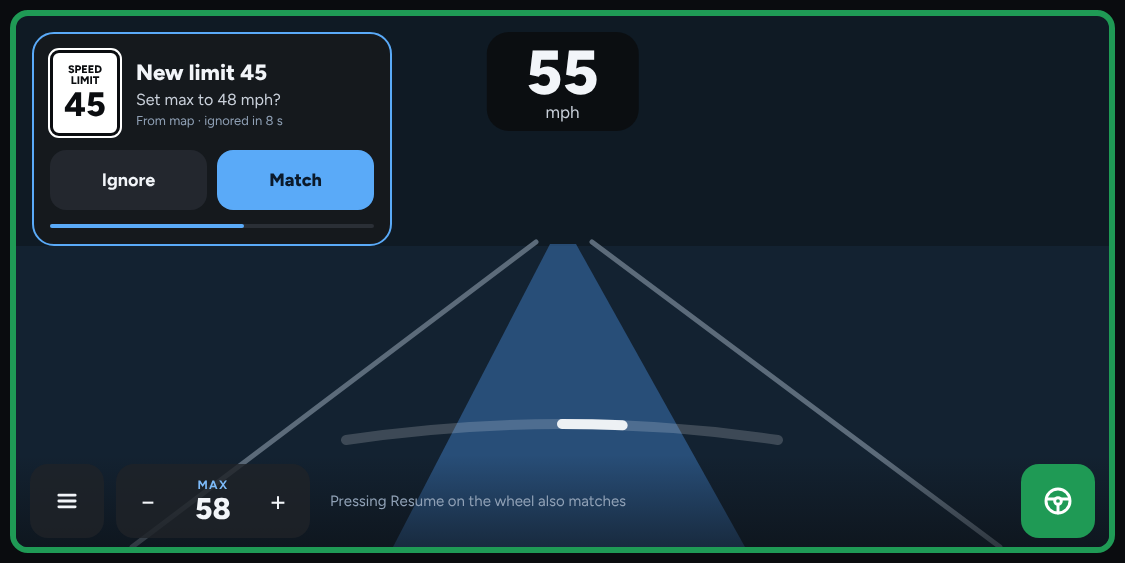
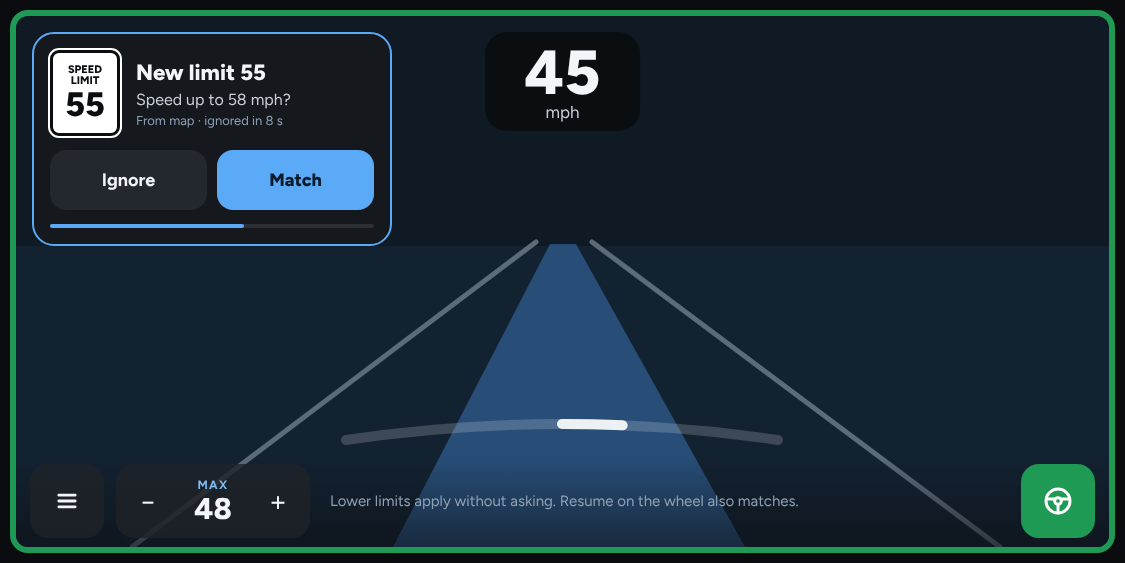
Let drivers choose automatic or tap-to-confirm for higher speed limits
Lower limits always apply on their own. Higher limits default to a tap
to confirm, with an option to update automatically.

Claude-Session: https://claude.ai/code/session_01R4pPc2hcx88Dbjjec1p8WC

diff --git a/starpilot/docs/design/essentials/driving.html b/starpilot/docs/design/essentials/driving.html
@@ -29,11 +29,11 @@ a{color:#5AAAF8}a:hover{color:#8CC4FA}
       </a>
     </div>
     <div style="flex-grow: 1; min-width: 0; background: #16191D; border-radius: 22px; display: flex; flex-direction: column; overflow: hidden;">
-      <div style="padding: 16px 22px 12px; border-bottom: 1px solid #23272E; display: flex; align-items: baseline; justify-content: space-between;">
+      <div style="padding: 12px 22px 8px; border-bottom: 1px solid #23272E; display: flex; align-items: baseline; justify-content: space-between;">
         <h2 style="margin: 0; font-size: 24px; font-weight: 700;">Everyday</h2>
-        <span style="font-size: 14px; color: #8FA0B5;">6 settings</span>
+        <span style="font-size: 14px; color: #8FA0B5;">7 settings</span>
       </div>
-      <div style="display: flex; align-items: center; gap: 16px; padding: 0 16px 0 22px; height: 60px; border-bottom: 1px solid #23272E;">
+      <div style="display: flex; align-items: center; gap: 16px; padding: 0 16px 0 22px; height: 54px; border-bottom: 1px solid #23272E;">
         <div style="flex-grow: 1; display: flex; flex-direction: column; gap: 3px; min-width: 0;">
           <span style="font-size: 19px; font-weight: 600;">Driving Style</span>
           <span style="font-size: 14px; color: #AEB6C2;">Sets following gap, acceleration and braking together</span>
@@ -44,10 +44,10 @@ a{color:#5AAAF8}a:hover{color:#8CC4FA}
           <button type="button" role="radio" aria-checked="false" style="font-family: inherit; border: 0; background: transparent; color: #C9D0DA; height: 42px; padding: 0 16px; border-radius: 10px; font-size: 16px; font-weight: 600;">Sport</button>
         </div>
       </div>
-      <div style="display: flex; align-items: center; gap: 16px; padding: 0 16px 0 22px; height: 60px; border-bottom: 1px solid #23272E;">
+      <div style="display: flex; align-items: center; gap: 16px; padding: 0 16px 0 22px; height: 54px; border-bottom: 1px solid #23272E;">
         <div style="flex-grow: 1; display: flex; flex-direction: column; gap: 3px; min-width: 0;">
           <span style="font-size: 19px; font-weight: 600;">Speed Limits</span>
-          <span style="font-size: 14px; color: #AEB6C2;">Match sets cruise to the posted limit, confirmed with a tap</span>
+          <span style="font-size: 14px; color: #AEB6C2;">Match sets cruise to the posted limit</span>
         </div>
         <div role="radiogroup" aria-label="Speed limits" style="display: flex; background: #23272E; border-radius: 13px; padding: 4px;">
           <button type="button" role="radio" aria-checked="false" style="font-family: inherit; border: 0; background: transparent; color: #C9D0DA; height: 42px; padding: 0 16px; border-radius: 10px; font-size: 16px; font-weight: 600;">Off</button>
@@ -55,7 +55,7 @@ a{color:#5AAAF8}a:hover{color:#8CC4FA}
           <button type="button" role="radio" aria-checked="true" style="font-family: inherit; border: 0; background: #5AAAF8; color: #0B1A2B; height: 42px; padding: 0 16px; border-radius: 10px; font-size: 16px; font-weight: 700;">Match</button>
         </div>
       </div>
-      <div style="display: flex; align-items: center; gap: 16px; padding: 0 16px 0 46px; height: 54px; border-bottom: 1px solid #23272E; background: #13161A;">
+      <div style="display: flex; align-items: center; gap: 16px; padding: 0 16px 0 46px; height: 48px; border-bottom: 1px solid #23272E; background: #13161A;">
         <div style="flex-grow: 1; display: flex; flex-direction: column; gap: 3px; min-width: 0;">
           <span style="font-size: 17px; font-weight: 600;">Offset</span>
           <span style="font-size: 14px; color: #AEB6C2;">Added to every matched limit</span>
@@ -66,7 +66,17 @@ a{color:#5AAAF8}a:hover{color:#8CC4FA}
           <button type="button" aria-label="Increase offset" style="font-family: inherit; width: 44px; height: 40px; border: 0; background: transparent; color: #F2F5F9; font-size: 22px;">+</button>
         </div>
       </div>
-      <div style="display: flex; align-items: center; gap: 16px; padding: 0 16px 0 22px; height: 60px; border-bottom: 1px solid #23272E;">
+      <div style="display: flex; align-items: center; gap: 16px; padding: 0 16px 0 46px; height: 48px; border-bottom: 1px solid #23272E; background: #13161A;">
+        <div style="flex-grow: 1; display: flex; flex-direction: column; gap: 2px; min-width: 0;">
+          <span style="font-size: 17px; font-weight: 600;">Higher limits</span>
+          <span style="font-size: 14px; color: #AEB6C2;">Lower limits always apply on their own</span>
+        </div>
+        <div role="radiogroup" aria-label="Higher limits" style="display: flex; background: #23272E; border-radius: 12px; padding: 3px;">
+          <button type="button" role="radio" aria-checked="false" style="font-family: inherit; border: 0; background: transparent; color: #C9D0DA; height: 36px; padding: 0 14px; border-radius: 9px; font-size: 15px; font-weight: 600;">Update automatically</button>
+          <button type="button" role="radio" aria-checked="true" style="font-family: inherit; border: 0; background: #5AAAF8; color: #0B1A2B; height: 36px; padding: 0 14px; border-radius: 9px; font-size: 15px; font-weight: 700;">Tap to confirm</button>
+        </div>
+      </div>
+      <div style="display: flex; align-items: center; gap: 16px; padding: 0 16px 0 22px; height: 54px; border-bottom: 1px solid #23272E;">
         <div style="flex-grow: 1; display: flex; flex-direction: column; gap: 3px; min-width: 0;">
           <span style="font-size: 19px; font-weight: 600;">Lane Changes</span>
           <span style="font-size: 14px; color: #AEB6C2;">Auto starts one change per signal, above 25 mph</span>
@@ -76,14 +86,14 @@ a{color:#5AAAF8}a:hover{color:#8CC4FA}
           <button type="button" role="radio" aria-checked="true" style="font-family: inherit; border: 0; background: #5AAAF8; color: #0B1A2B; height: 42px; padding: 0 16px; border-radius: 10px; font-size: 16px; font-weight: 700;">Auto</button>
         </div>
       </div>
-      <div style="display: flex; align-items: center; gap: 16px; padding: 0 22px; height: 60px; border-bottom: 1px solid #23272E;">
+      <div style="display: flex; align-items: center; gap: 16px; padding: 0 22px; height: 54px; border-bottom: 1px solid #23272E;">
         <div style="flex-grow: 1; display: flex; flex-direction: column; gap: 3px; min-width: 0;">
           <span style="font-size: 19px; font-weight: 600;">Smart Slowdowns</span>
           <span style="font-size: 14px; color: #AEB6C2;">Slows for curves, stop lights and stopped traffic on its own</span>
         </div>
         <button type="button" role="switch" aria-checked="true" aria-label="Smart Slowdowns" style="width: 72px; height: 42px; border-radius: 21px; border: 0; background: #5AAAF8; padding: 4px; display: flex; justify-content: flex-end;"><span style="width: 34px; height: 34px; border-radius: 17px; background: #0E1520; display: block;"></span></button>
       </div>
-      <div style="display: flex; align-items: center; gap: 16px; padding: 0 22px; height: 60px;">
+      <div style="display: flex; align-items: center; gap: 16px; padding: 0 22px; height: 54px;">
         <div style="flex-grow: 1; display: flex; flex-direction: column; gap: 3px; min-width: 0;">
           <span style="font-size: 19px; font-weight: 600;">Always-On Steering</span>
           <span style="font-size: 14px; color: #AEB6C2;">Keeps steering with cruise off. Pauses while you brake.</span>

diff --git a/starpilot/docs/design/essentials/confirmlimit.html b/starpilot/docs/design/essentials/confirmlimit.html
@@ -2,7 +2,7 @@
 <html lang="en">
 <head>
 <meta charset="utf-8">
-<title>Confirm new speed limit</title>
+<title>Confirm higher speed limit</title>
 </head>
 <body>
 
@@ -25,7 +25,7 @@ a{color:#7DBBF9}a:hover{color:#A9D3FB}
       <path d="M330 424 Q546 392 762 424" pathLength="100" stroke="#FFFFFF" stroke-opacity="0.9" stroke-width="10" fill="none" stroke-linecap="round" stroke-dasharray="14 200" stroke-dashoffset="-50"></path>
     </svg>
     <div style="position: absolute; left: 50%; top: 16px; transform: translateX(-50%); background: #0B0D10E6; border-radius: 22px; padding: 10px 40px; display: flex; flex-direction: column; align-items: center; line-height: 1;">
-      <span style="font-size: 62px; font-weight: 800;">55</span>
+      <span style="font-size: 62px; font-weight: 800;">45</span>
       <span style="font-size: 17px; color: #C9D0DA;">mph</span>
     </div>
     <div style="position: absolute; left: 16px; top: 16px; width: 360px; box-sizing: border-box; background: #16191DF5; border: 2px solid #5AAAF8; border-radius: 22px; padding: 16px; display: flex; flex-direction: column; gap: 14px;">
@@ -33,11 +33,11 @@ a{color:#7DBBF9}a:hover{color:#A9D3FB}
         <div style="width: 70px; height: 86px; box-sizing: border-box; border-radius: 9px; background: #FFFFFF; border: 3px solid #0B0D10; outline: 2px solid #FFFFFF; display: flex; flex-direction: column; align-items: center; justify-content: center; color: #0B0D10; line-height: 1; flex-shrink: 0;">
           <span style="font-size: 11px; font-weight: 800;">SPEED</span>
           <span style="font-size: 11px; font-weight: 800;">LIMIT</span>
-          <span style="font-size: 34px; font-weight: 800; margin-top: 2px;">45</span>
+          <span style="font-size: 34px; font-weight: 800; margin-top: 2px;">55</span>
         </div>
         <div style="display: flex; flex-direction: column; gap: 4px;">
-          <span style="font-size: 22px; font-weight: 800;">New limit 45</span>
-          <span style="font-size: 16px; color: #C9D0DA;">Set max to 48 mph?</span>
+          <span style="font-size: 22px; font-weight: 800;">New limit 55</span>
+          <span style="font-size: 16px; color: #C9D0DA;">Speed up to 58 mph?</span>
           <span style="font-size: 13px; color: #8FA0B5;">From map · ignored in 8 s</span>
         </div>
       </div>
@@ -53,11 +53,11 @@ a{color:#7DBBF9}a:hover{color:#A9D3FB}
         <button type="button" aria-label="Lower max speed" style="font-family: inherit; width: 52px; height: 62px; border: 0; background: transparent; color: #F2F5F9; font-size: 28px;">−</button>
         <div style="width: 70px; display: flex; flex-direction: column; align-items: center; line-height: 1;">
           <span style="font-size: 12px; font-weight: 700; letter-spacing: 1.4px; color: #7DBBF9;">MAX</span>
-          <span style="font-size: 30px; font-weight: 800; margin-top: 3px;">58</span>
+          <span style="font-size: 30px; font-weight: 800; margin-top: 3px;">48</span>
         </div>
         <button type="button" aria-label="Raise max speed" style="font-family: inherit; width: 52px; height: 62px; border: 0; background: transparent; color: #F2F5F9; font-size: 28px;">+</button>
       </div>
-      <span style="flex-grow: 1; font-size: 15px; color: #8FA0B5; padding-left: 8px;">Pressing Resume on the wheel also matches</span>
+      <span style="flex-grow: 1; font-size: 15px; color: #8FA0B5; padding-left: 8px;">Lower limits apply without asking. Resume on the wheel also matches.</span>
       <button type="button" aria-label="Disengage" style="width: 74px; height: 74px; border-radius: 18px; border: 0; background: #1F9A55; display: flex; align-items: center; justify-content: center;"><svg width="32" height="32" viewBox="0 0 24 24" fill="none" stroke="#FFFFFF" stroke-width="2.2" stroke-linecap="round" stroke-linejoin="round" aria-hidden="true"><circle cx="12" cy="12" r="9"></circle><circle cx="12" cy="12" r="2.5"></circle><path d="M3.5 10.5h6M14.5 10.5h6M12 14.5V21"></path></svg></button>
     </div>
   </div>

diff --git a/starpilot/docs/design/essentials/defaults.html b/starpilot/docs/design/essentials/defaults.html
@@ -31,7 +31,7 @@ a{color:#7DBBF9}a:hover{color:#A9D3FB}
         <span style="font-size: 17px; font-weight: 700;">Driving Style</span><span style="font-size: 16px; color: #AEB6C2;">Relaxed · <b style="color: #F2F5F9;">Standard</b> · Sport</span><span style="font-family: 'JetBrains Mono', monospace; font-size: 13px; color: #9FAABA;">LongitudinalPersonality AccelProfile DecelProfile HumanLaneChanges</span>
       </div>
       <div style="display: grid; grid-template-columns: 210px 300px minmax(0, 1fr); gap: 20px; padding: 10px 24px; border-bottom: 1px solid #22262C; align-items: baseline;">
-        <span style="font-size: 17px; font-weight: 700;">Speed Limits</span><span style="font-size: 16px; color: #AEB6C2;">Off · Show · <b style="color: #F2F5F9;">Match</b>, offset +3</span><span style="font-family: 'JetBrains Mono', monospace; font-size: 13px; color: #9FAABA;">ShowSpeedLimits SetSpeedLimit SLCConfirmation SLCFallback SLCPriority SLCMapboxFiller VisionSpeedLimit ConfigureOffsets UseVienna (by region)</span>
+        <span style="font-size: 17px; font-weight: 700;">Speed Limits</span><span style="font-size: 16px; color: #AEB6C2;">Off · Show · <b style="color: #F2F5F9;">Match</b>, offset +3, higher: <b style="color: #F2F5F9;">tap to confirm</b> · automatic</span><span style="font-family: 'JetBrains Mono', monospace; font-size: 13px; color: #9FAABA;">ShowSpeedLimits SetSpeedLimit SLCConfirmation SLCConfirmationLower SLCConfirmationHigher SLCFallback SLCPriority SLCMapboxFiller VisionSpeedLimit ConfigureOffsets UseVienna (by region)</span>
       </div>
       <div style="display: grid; grid-template-columns: 210px 300px minmax(0, 1fr); gap: 20px; padding: 10px 24px; border-bottom: 1px solid #22262C; align-items: baseline;">
         <span style="font-size: 17px; font-weight: 700;">Lane Changes</span><span style="font-size: 16px; color: #AEB6C2;">Nudge · <b style="color: #F2F5F9;">Auto</b></span><span style="font-family: 'JetBrains Mono', monospace; font-size: 13px; color: #9FAABA;">NudgelessLaneChange OneLaneChange LaneChangeTime MinimumLaneChangeSpeed LaneDetectionWidth LaneChangeSmoothing</span>

diff --git a/starpilot/docs/design/essentials/README.md b/starpilot/docs/design/essentials/README.md
@@ -51,7 +51,7 @@ Defaults are in **bold**.
 | Control | Choices | Params |
 | --- | --- | --- |
 | Driving Style | Relaxed · **Standard** · Sport | `LongitudinalPersonality` `AccelProfile` `DecelProfile` `HumanLaneChanges` |
-| Speed Limits | Off · Show · **Match** (offset **+3**) | `ShowSpeedLimits` `SetSpeedLimit` `SLCConfirmation` `SLCFallback` `SLCPriority` `SLCMapboxFiller` `VisionSpeedLimit` `ConfigureOffsets` `UseVienna` (from region) |
+| Speed Limits | Off · Show · **Match** (offset **+3**). Higher limits: **Tap to confirm** · Update automatically | `ShowSpeedLimits` `SetSpeedLimit` `SLCConfirmation` `SLCConfirmationLower` `SLCConfirmationHigher` `SLCFallback` `SLCPriority` `SLCMapboxFiller` `VisionSpeedLimit` `ConfigureOffsets` `UseVienna` (from region) |
 | Lane Changes | Nudge · **Auto** | `NudgelessLaneChange` `OneLaneChange` `LaneChangeTime` `MinimumLaneChangeSpeed` `LaneDetectionWidth` `LaneChangeSmoothing` |
 | Smart Slowdowns | **On** · Off | `ConditionalExperimental` `CECurves` `CEStopLights` `CEStoppedLead` `CESlowerLead` `CurveSpeedController` `MapDecel` |
 | Always-On Steering | **On** · Off | `AlwaysOnLateral` `PauseAOLOnBrake` `TeslaAOLDisengageOnBrake` |
@@ -144,7 +144,10 @@ Rules:
 ## Alerts and dialogs
 
 - **Three onroad alert levels.** Info is a small banner and the border stays green. Warning has an amber border and a two-line banner. Critical is a full-screen red takeover. Clean Screen never hides any of them.
-- **Speed limit confirmation** appears as a card on the speed sign, with Ignore and Match buttons and an 8 second timeout. Pressing Resume on the wheel also matches. This is the Match default with `SLCConfirmation` on.
+- **New speed limits.** Under Match, a "Higher limits" choice offers **Tap to confirm** (the default) or **Update automatically**.
+  - **Lower limits always apply on their own.** If a lower limit waited for a tap, ignoring the prompt would leave the car above the posted limit. In both modes `SLCConfirmationLower` stays off.
+  - **Tap to confirm** sets `SLCConfirmation` and `SLCConfirmationHigher` on. A higher limit shows a card on the speed sign with Ignore and Match buttons, ignored after 8 seconds. Pressing Resume on the wheel also matches.
+  - **Update automatically** sets `SLCConfirmation` off, so every change applies with no taps. The blue "Matching limit" status chip explains the speed change.
 - **Confirm dialogs come in two kinds.** Destructive actions get a red button and a "can't be undone" line. Actions that need a restart get a blue "Restart now" button and a Later option.
 - **Every long-running job uses the same four states:** in progress (bar and cancel), blocked (lock icon and the reason, e.g. "park to download"), done (a 4 second toast, never shown while driving) and empty (a short explanation and the next action).
 
